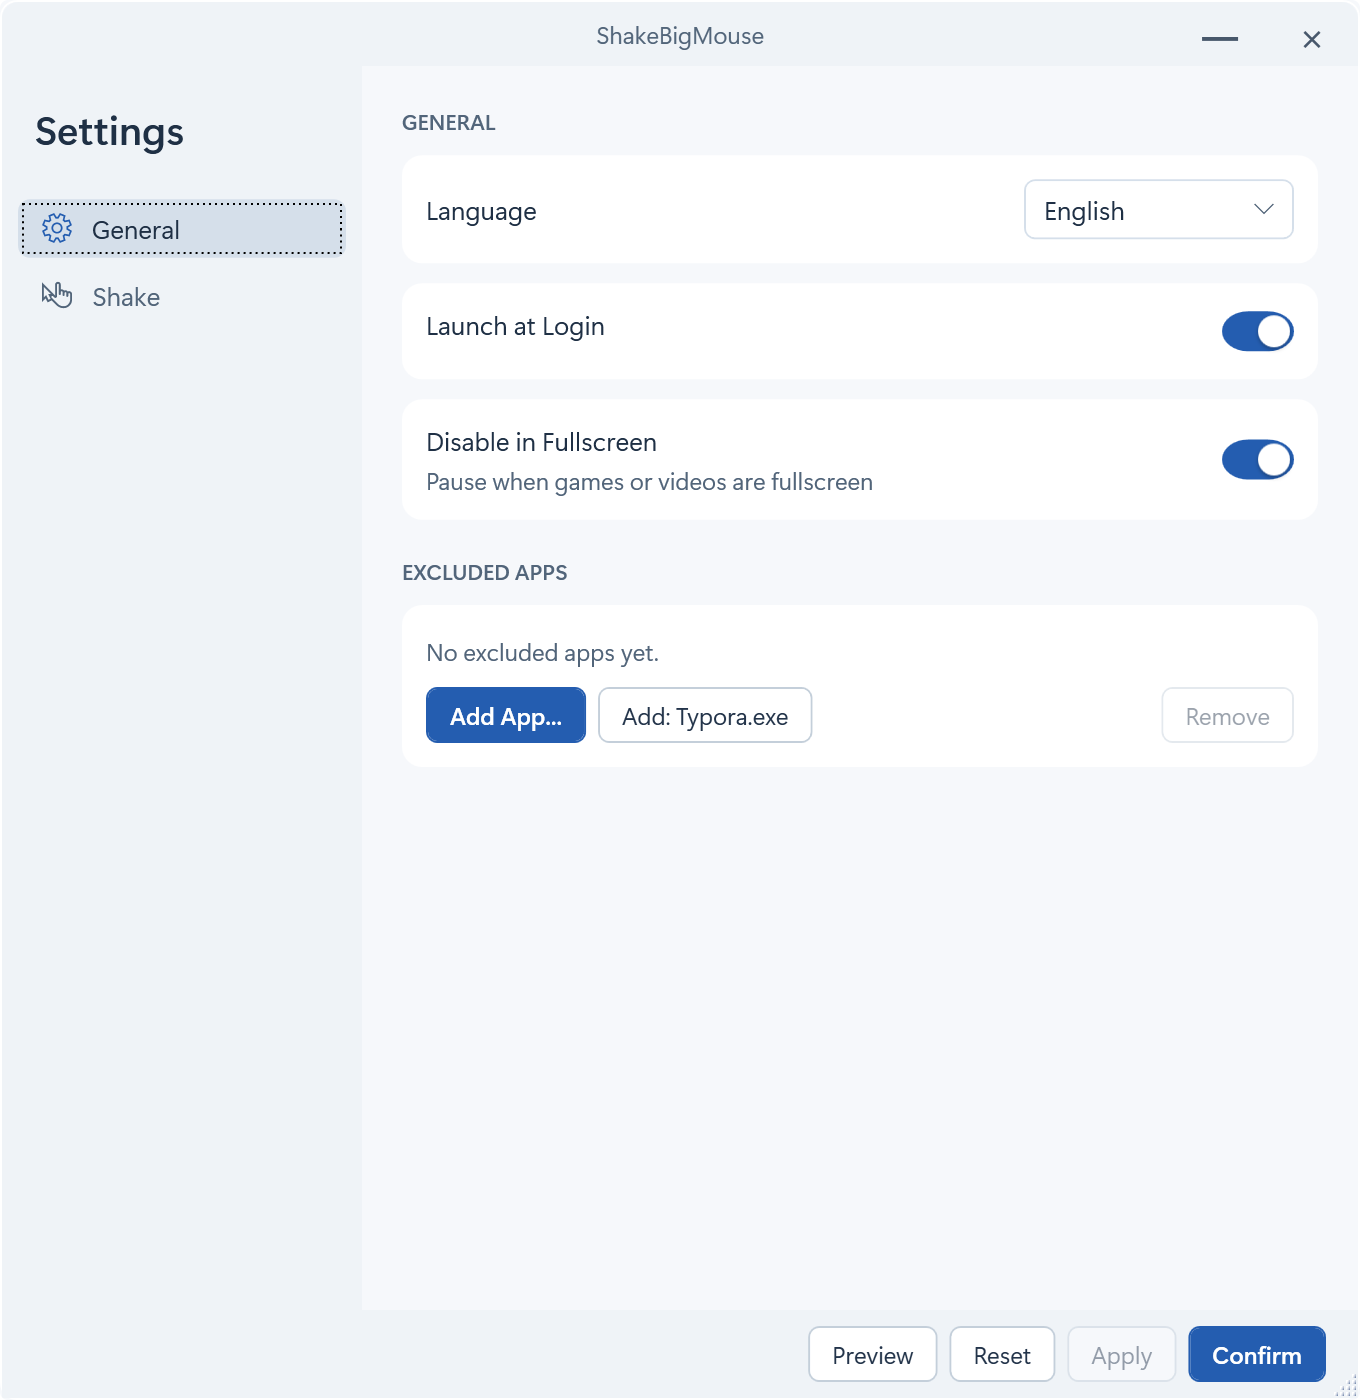
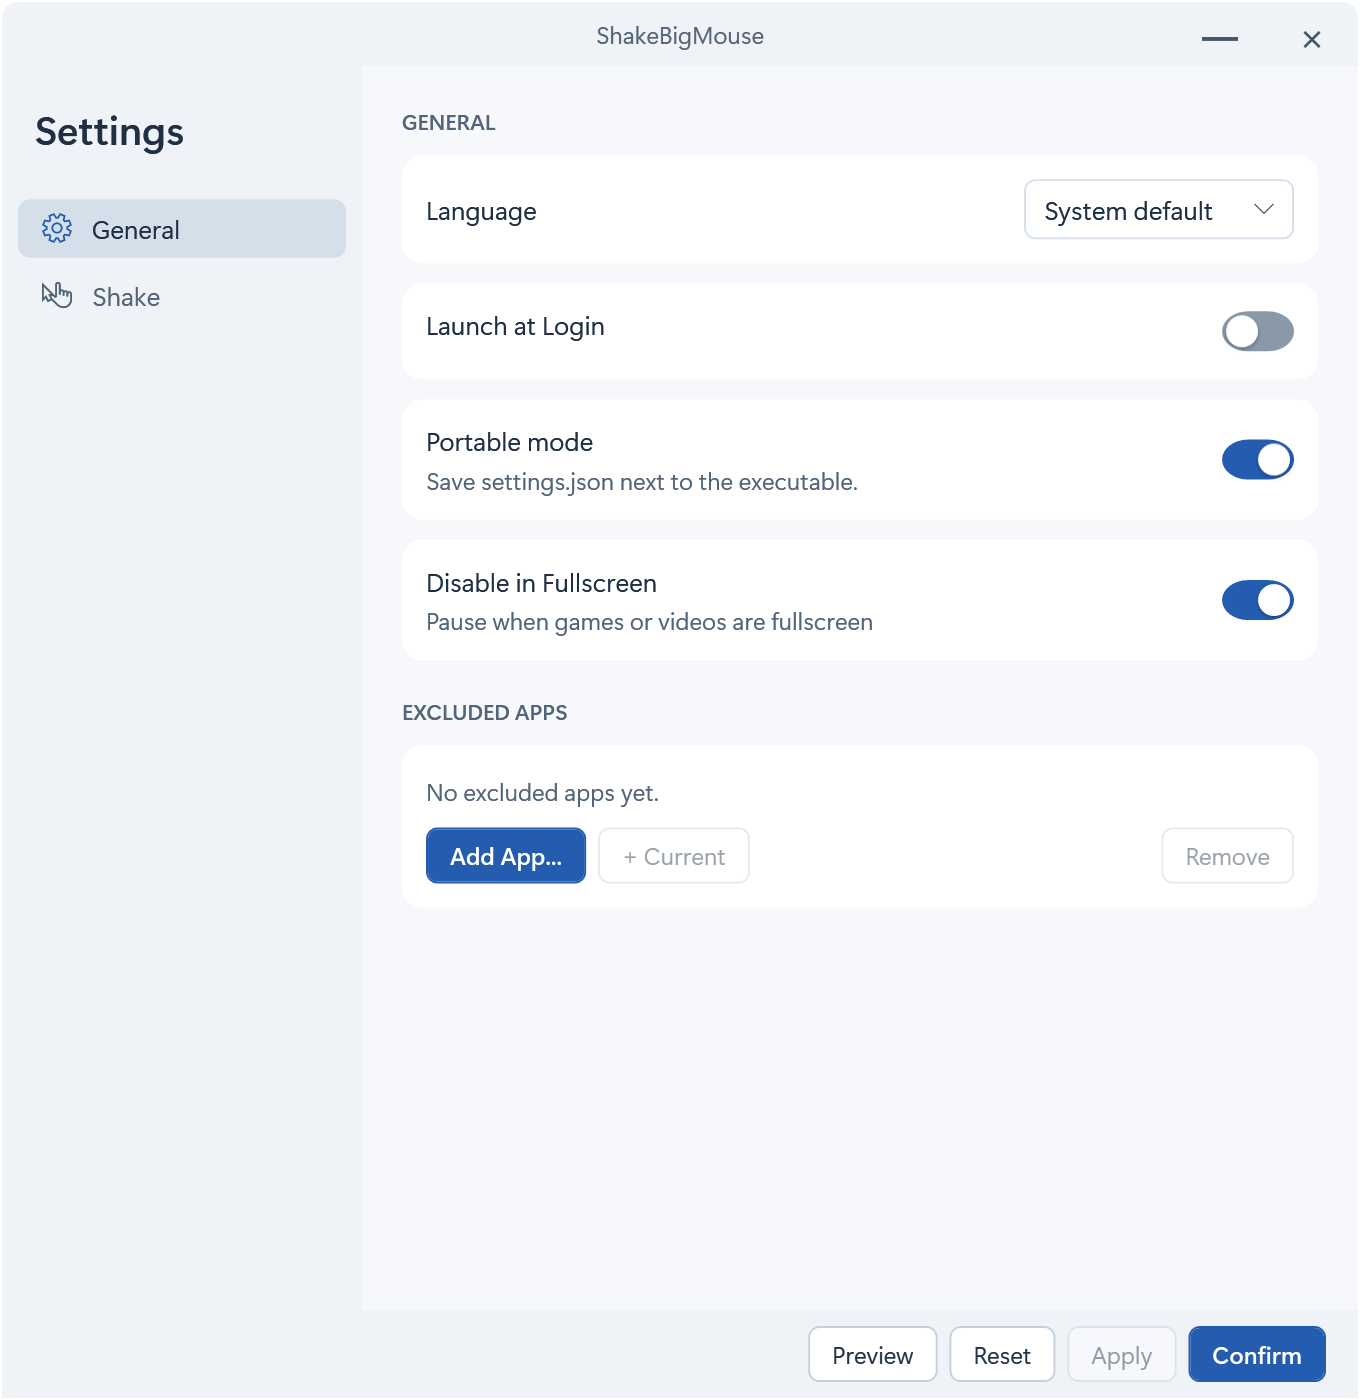
Add portable settings and publish both Windows runtime variants

diff --git a/ShakeToFindCursor/Views/SettingsWindow.xaml b/ShakeToFindCursor/Views/SettingsWindow.xaml
@@ -751,6 +751,19 @@
                                     </Grid>
                                 </Border>
 
+                                <Border Style="{StaticResource SettingsCardStyle}">
+                                    <DockPanel>
+                                        <CheckBox x:Name="TogglePortableMode" DockPanel.Dock="Right"
+                                                  AutomationProperties.Name="{l:Loc PortableMode}"
+                                                  AutomationProperties.HelpText="{l:Loc PortableModeHelp}"
+                                                  Style="{StaticResource ToggleSwitchStyle}" VerticalAlignment="Center"/>
+                                        <StackPanel>
+                                            <TextBlock Text="{l:Loc PortableMode}" Style="{StaticResource SettingLabelStyle}"/>
+                                            <TextBlock Text="{l:Loc PortableModeHelp}" Style="{StaticResource SettingDescriptionStyle}"/>
+                                        </StackPanel>
+                                    </DockPanel>
+                                </Border>
+
                                 <!-- Disable in Fullscreen -->
                                 <Border Style="{StaticResource SettingsCardStyle}">
                                     <Grid>

diff --git a/ShakeToFindCursor/Settings/AppSettings.cs b/ShakeToFindCursor/Settings/AppSettings.cs
@@ -46,7 +46,10 @@ public class AppSettings
     // System
     public bool RunOnStartup { get; set; } = false;
 
-    private static readonly string SettingsPath = Path.Combine(
+    // The file's location selects the mode, including for copied or older settings.
+    internal bool PortableMode { get; set; } = true;
+    private static readonly string PortablePath = Path.Combine(AppContext.BaseDirectory, "settings.json");
+    private static readonly string UserPath = Path.Combine(
         Environment.GetFolderPath(Environment.SpecialFolder.ApplicationData),
         "ShakeToFindCursor",
         "settings.json");
@@ -60,21 +63,27 @@ public class AppSettings
         return copy;
     }
 
-    public static AppSettings Load()
+    public static AppSettings Load() => Load(PortablePath, UserPath);
+
+    internal static AppSettings Load(string portablePath, string userPath)
     {
-        if (File.Exists(SettingsPath))
+        bool portable = !string.Equals(portablePath, userPath, StringComparison.OrdinalIgnoreCase) &&
+            (File.Exists(portablePath) || !File.Exists(userPath));
+        string path = portable ? portablePath : userPath;
+        var settings = new AppSettings();
+        if (File.Exists(path))
         {
             try
             {
-                var json = File.ReadAllText(SettingsPath);
-                return FromJson(json);
+                settings = FromJson(File.ReadAllText(path));
             }
             catch (Exception ex)
             {
-                LogLoadError(ex);
+                LogLoadError(ex, path);
             }
         }
-        return new AppSettings();
+        settings.PortableMode = portable;
+        return settings;
     }
 
     public static AppSettings FromJson(string json)
@@ -112,11 +121,11 @@ public class AppSettings
             : 0;
     }
 
-    private static void LogLoadError(Exception ex)
+    private static void LogLoadError(Exception ex, string path)
     {
         try
         {
-            var dir = Path.GetDirectoryName(SettingsPath);
+            var dir = Path.GetDirectoryName(path);
             if (dir != null)
             {
                 Directory.CreateDirectory(dir);
@@ -126,24 +135,48 @@ public class AppSettings
         catch { }
     }
 
-    internal void Save(bool previousStartup)
+    internal void Save(AppSettings previous) => Save(previous, PortablePath, UserPath);
+
+    internal void Save(AppSettings previous, string portablePath, string userPath)
     {
-        Directory.CreateDirectory(Path.GetDirectoryName(SettingsPath)!);
-        string temporary = SettingsPath + "." + Guid.NewGuid().ToString("N") + ".tmp";
-        bool changeStartup = RunOnStartup != previousStartup;
+        if (PortableMode && string.Equals(portablePath, userPath, StringComparison.OrdinalIgnoreCase))
+            throw new IOException(Localization.UiText.Current["PortableSameFolder"]);
+
+        string path = PortableMode ? portablePath : userPath;
+        Directory.CreateDirectory(Path.GetDirectoryName(path)!);
+        string temporary = path + "." + Guid.NewGuid().ToString("N") + ".tmp";
+        bool leavingPortable = previous.PortableMode && !PortableMode;
+        string? backup = leavingPortable && File.Exists(userPath) ? temporary + ".bak" : null;
+        bool changeStartup = RunOnStartup != previous.RunOnStartup;
         try
         {
             File.WriteAllText(temporary, JsonSerializer.Serialize(this, new JsonSerializerOptions { WriteIndented = true }));
             if (changeStartup && !ApplyStartupSettings(RunOnStartup))
                 throw new IOException(Localization.UiText.Current["ErrorStartup"]);
-            try { File.Move(temporary, SettingsPath, overwrite: true); }
+            try
+            {
+                if (backup != null) File.Replace(temporary, path, backup);
+                else File.Move(temporary, path, overwrite: true);
+                if (leavingPortable)
+                {
+                    // Keep the old portable file authoritative until the new user copy is in place.
+                    try { File.Delete(portablePath); }
+                    catch
+                    {
+                        if (backup != null) File.Move(backup, path, overwrite: true);
+                        else File.Delete(path);
+                        throw;
+                    }
+                }
+            }
             catch
             {
-                if (changeStartup) ApplyStartupSettings(previousStartup);
+                if (changeStartup) ApplyStartupSettings(previous.RunOnStartup);
                 throw;
             }
         }
         finally { File.Delete(temporary); }
+        if (backup != null) File.Delete(backup);
     }
 
     private static bool ApplyStartupSettings(bool enabled)

diff --git a/tests/BehaviorTests/PortableSettingsChecks.cs b/tests/BehaviorTests/PortableSettingsChecks.cs
@@ -1,0 +1,67 @@
+using System.IO;
+using System.Windows;
+using ShakeToFindCursor;
+
+internal static partial class Program
+{
+    private static void VerifyPortableSettings()
+    {
+        var folder = Directory.CreateTempSubdirectory("ShakeBigMouse-settings-");
+        string portable = Path.Combine(folder.FullName, "settings.json");
+        string user = Path.Combine(folder.FullName, "Roaming", "ShakeToFindCursor", "settings.json");
+        AppSettings Load() => AppSettings.Load(portable, user);
+        try
+        {
+            var fresh = Load();
+            if (!fresh.PortableMode || File.Exists(portable) || File.Exists(user))
+                throw new Exception("A fresh installation should default to portable mode.");
+            fresh.Save(fresh, portable, user);
+            if (!File.Exists(portable) || File.Exists(user)) throw new Exception("Wrong first-save location.");
+            File.Delete(portable);
+
+            Directory.CreateDirectory(Path.GetDirectoryName(user)!);
+            const string legacy = """{"Sensitivity":10,"Language":"en","ExcludedProcesses":["game"]}""";
+            File.WriteAllText(user, legacy);
+            var saved = Load();
+            if (saved.PortableMode || saved.MinimumShakeDistance != 450 || saved.ExcludedProcesses.Single() != "game")
+                throw new Exception("The existing user configuration was not loaded.");
+
+            var window = new SettingsWindow(saved, draft => { draft.Save(saved, portable, user); saved = draft; });
+            window.TogglePortableMode.IsChecked = true;
+            window.BtnReset.RaiseEvent(new RoutedEventArgs(System.Windows.Controls.Primitives.ButtonBase.ClickEvent));
+            if (window.TogglePortableMode.IsChecked != true || !window.BtnApply.IsEnabled || File.Exists(portable))
+                throw new Exception("Reset or toggling changed the storage location before Apply.");
+            window.Close();
+            if (File.Exists(portable) || File.ReadAllText(user) != legacy) throw new Exception("Closing saved a draft.");
+            window = new SettingsWindow(saved, draft => { draft.Save(saved, portable, user); saved = draft; });
+            window.TogglePortableMode.IsChecked = true;
+            window.SliderMinimumShakeDistance.Value = 703;
+            window.BtnApply.RaiseEvent(new RoutedEventArgs(System.Windows.Controls.Primitives.ButtonBase.ClickEvent));
+            window.Close();
+            saved = Load();
+            if (!saved.PortableMode || saved.MinimumShakeDistance != 703 || saved.ExcludedProcesses.Single() != "game" ||
+                File.ReadAllText(user) != legacy)
+                throw new Exception("Enabling portable mode lost settings or replaced the user file.");
+            saved.MinimumShakeDistance = 789;
+            saved.Save(saved, portable, user);
+            if (Load().MinimumShakeDistance != 789 || File.ReadAllText(user) != legacy)
+                throw new Exception("Subsequent saves went to the wrong file.");
+
+            var local = saved.Clone();
+            local.PortableMode = false;
+            using (File.Open(portable, FileMode.Open, FileAccess.Read, FileShare.Read))
+            {
+                try { local.Save(saved, portable, user); throw new Exception("A locked portable file allowed the switch."); }
+                catch (IOException) { }
+            }
+            if (!Load().PortableMode || File.ReadAllText(user) != legacy)
+                throw new Exception("Failed migration did not preserve both configurations.");
+            local.Save(saved, portable, user);
+            var reloaded = Load();
+            if (File.Exists(portable) || reloaded.PortableMode || reloaded.MinimumShakeDistance != 789 ||
+                reloaded.ExcludedProcesses.Single() != "game")
+                throw new Exception("Switching back did not preserve the portable settings in AppData.");
+        }
+        finally { folder.Delete(recursive: true); }
+    }
+}

diff --git a/ShakeToFindCursor/Views/SettingsWindow.xaml.cs b/ShakeToFindCursor/Views/SettingsWindow.xaml.cs
@@ -49,7 +49,7 @@ public partial class SettingsWindow : Window
         Deactivated += (_, _) => _cancelPreview?.Invoke();
         SourceInitialized += (_, _) => FitHeightToWorkArea();
         foreach (var toggle in new System.Windows.Controls.Primitives.ToggleButton[]
-            { ToggleStartup, ToggleFullscreen, ModeProportional, ModeMaximum })
+            { ToggleStartup, TogglePortableMode, ToggleFullscreen, ModeProportional, ModeMaximum })
         {
             toggle.Checked += (_, _) => UpdateActions();
             toggle.Unchecked += (_, _) => UpdateActions();
@@ -78,6 +78,7 @@ public partial class SettingsWindow : Window
         _loading = true;
         LanguagePicker.SelectedValue = UiText.Normalize(s.Language);
         ToggleStartup.IsChecked = s.RunOnStartup;
+        TogglePortableMode.IsChecked = s.PortableMode;
         SliderMinimumShakeDistance.Value = s.MinimumShakeDistance;
         SliderShakeWindowMs.Value = s.ShakeWindowMs;
         SliderShakeSensitivityPercent.Value = s.ShakeSensitivityPercent;
@@ -110,6 +111,7 @@ public partial class SettingsWindow : Window
         {
             Language = UiText.Normalize(LanguagePicker.SelectedValue as string),
             RunOnStartup = ToggleStartup.IsChecked == true,
+            PortableMode = TogglePortableMode.IsChecked == true,
             MinimumShakeDistance = (int)SliderMinimumShakeDistance.Value,
             ShakeWindowMs = (int)SliderShakeWindowMs.Value,
             ShakeSensitivityPercent = (int)SliderShakeSensitivityPercent.Value,
@@ -147,7 +149,7 @@ public partial class SettingsWindow : Window
         UpdateActions();
     }
     private bool HasChanges(AppSettings s) =>
-        s.Language != _saved.Language || s.RunOnStartup != _saved.RunOnStartup ||
+        s.Language != _saved.Language || s.RunOnStartup != _saved.RunOnStartup || s.PortableMode != _saved.PortableMode ||
         s.MinimumShakeDistance != _saved.MinimumShakeDistance || s.ShakeWindowMs != _saved.ShakeWindowMs ||
         s.ShakeSensitivityPercent != _saved.ShakeSensitivityPercent || s.MagnificationFactor != _saved.MagnificationFactor ||
         s.MaxSizeHoldSeconds != _saved.MaxSizeHoldSeconds || s.ScaleWithShakeStrength != _saved.ScaleWithShakeStrength ||
@@ -266,8 +268,8 @@ public partial class SettingsWindow : Window
     private void BtnReset_Click(object sender, RoutedEventArgs e)
     {
         _cancelPreview?.Invoke();
-        // Reset mouse parameters without changing the current startup choice, including unsaved edits.
-        LoadSettings(new AppSettings { Language = _saved.Language, RunOnStartup = ToggleStartup.IsChecked == true });
+        LoadSettings(new AppSettings { Language = _saved.Language, RunOnStartup = ToggleStartup.IsChecked == true,
+            PortableMode = TogglePortableMode.IsChecked == true });
     }
 
     private void BtnPreview_Click(object sender, RoutedEventArgs e)

diff --git a/tests/BehaviorTests/Program.cs b/tests/BehaviorTests/Program.cs
@@ -31,6 +31,8 @@ internal static partial class Program
         if (args.Contains("--desktop-shrink-trace")) { TraceDesktopShrink(); return; }
         if (args.Contains("--shrink-frames")) { ProbeShrinkFrames(); return; }
         if (args.Contains("--desktop-cross-shake")) { ProbeRunningAppAcrossScreens(); return; }
+        Check("portable settings default, selection, migration and rollback", VerifyPortableSettings);
+        if (args.Contains("--settings-storage")) return;
         Check("fullscreen detection allows the shell desktop and recognizes a borderless fullscreen app", VerifyDesktopFullscreenDetection);
         Check("decimal editors preview draft settings without saving and reject invalid values", VerifyDraftPreview);
         Check("preview completes, cancels and restores the saved animation configuration", VerifyPreviewAnimation);

diff --git a/ShakeToFindCursor/App.xaml.cs b/ShakeToFindCursor/App.xaml.cs
@@ -380,7 +380,7 @@ public partial class App : System.Windows.Application
     {
         ((App)Current).CancelPreview();
         var previous = CurrentSettings;
-        next.Save(previous.RunOnStartup);
+        next.Save(previous);
         CurrentSettings = next;
         UiText.Current.Apply(next.Language);
         ((App)Current)._refreshTray?.Invoke();

diff --git a/README.md b/README.md
@@ -6,7 +6,14 @@ Shake the mouse to enlarge the pointer on Windows, just like on macOS.
 
 ## Getting started
 
-Run `ShakeBigMouse.exe`, then shake the mouse to enlarge the pointer.
+Choose a Windows x64 ZIP:
+
+| Download | Runtime |
+| --- | --- |
+| `ShakeBigMouse-win-x64.zip` | Includes the .NET runtime. |
+| `ShakeBigMouse-win-x64-framework-dependent.zip` | Requires the .NET 10 Desktop Runtime (x64) on your PC. |
+
+Extract `ShakeBigMouse.exe`, run it, then shake the mouse to enlarge the pointer.
 
 ![The pointer grows when the mouse is shaken, then returns to its usual size](images/shake-demo.webp)
 
@@ -32,11 +39,12 @@ Open **Shake** in Settings. By default, the harder you shake the mouse, the larg
 
 ## Building on Windows
 
-Install the .NET 10 SDK and PowerShell 7 on Windows, then run these commands to build and verify the ZIP package.
+Install the .NET 10 SDK and PowerShell 7 on Windows, then run these commands to build and verify both ZIPs. Each contains only `ShakeBigMouse.exe`.
 
 ```powershell
 pwsh -File ./scripts/Publish-Windows.ps1
 pwsh -File ./scripts/Test-WindowsPackage.ps1 -ZipPath ./dist/windows/ShakeBigMouse-win-x64.zip
+pwsh -File ./scripts/Test-WindowsPackage.ps1 -ZipPath ./dist/windows/ShakeBigMouse-win-x64-framework-dependent.zip -FrameworkDependent
 ```
 
 ## License

diff --git a/README.zh-CN.md b/README.zh-CN.md
@@ -6,7 +6,14 @@
 
 ## 开始使用
 
-双击运行 `ShakeBigMouse.exe`, 来回晃动鼠标即可放大指针.
+按需选择 Windows x64 压缩包。
+
+| 下载文件 | 运行条件 |
+| --- | --- |
+| `ShakeBigMouse-win-x64.zip` | 自带 .NET 运行时，解压即可使用。 |
+| `ShakeBigMouse-win-x64-framework-dependent.zip` | 电脑需安装 .NET 10 桌面运行时（x64）。 |
+
+解压后双击运行 `ShakeBigMouse.exe`，来回晃动鼠标即可放大指针。
 
 ![晃动鼠标后指针放大并缩回原状](images/shake-demo.webp)
 
@@ -32,11 +39,12 @@
 
 ## Windows 构建
 
-在 Windows 上安装 .NET 10 SDK 和 PowerShell 7, 然后运行以下命令构建并验证 ZIP 包.
+在 Windows 上安装 .NET 10 SDK 和 PowerShell 7，然后运行以下命令构建并验证两种 ZIP。每个包内只有 `ShakeBigMouse.exe`。
 
 ```powershell
 pwsh -File ./scripts/Publish-Windows.ps1
 pwsh -File ./scripts/Test-WindowsPackage.ps1 -ZipPath ./dist/windows/ShakeBigMouse-win-x64.zip
+pwsh -File ./scripts/Test-WindowsPackage.ps1 -ZipPath ./dist/windows/ShakeBigMouse-win-x64-framework-dependent.zip -FrameworkDependent
 ```
 
 ## 许可证
